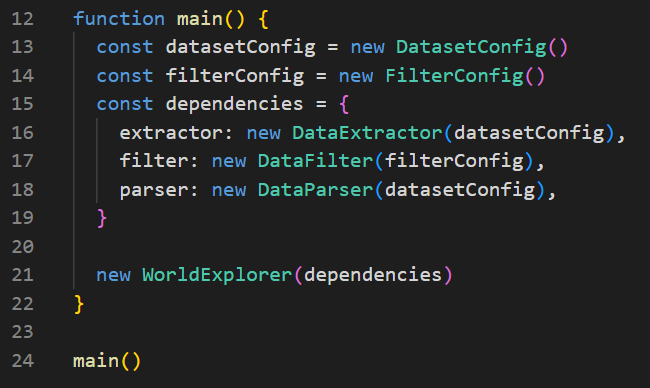
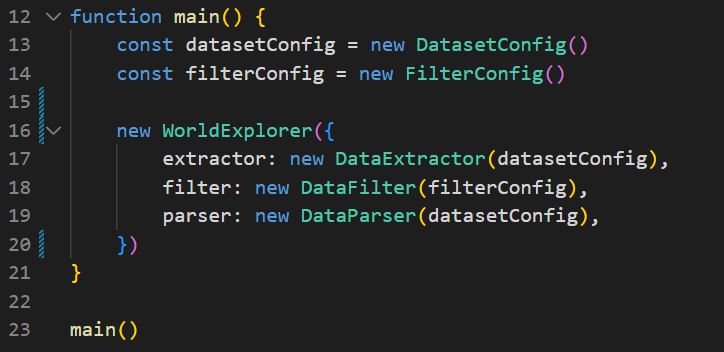
Add unit tests for Controller

diff --git a/tests/controller.spec.js b/tests/controller.spec.js
@@ -1,0 +1,70 @@
+/**
+ * @module Tests that the controller handles event flow correctly.
+ */
+
+import { describe, test, expect, jest, beforeEach } from "@jest/globals"
+import { DatasetConfig } from "../src/config/datasets.js"
+import { FilterConfig } from "../src/config/filters.js"
+import { DataParser } from "../src/model/dataParser.js"
+import { DataExtractor } from "../src/model/dataExtractor.js"
+import { DataFilter } from "../src/model/dataFilter.js"
+import { WorldExplorer } from "../src/controller/worldExplorer.js"
+
+function construct() {
+	const datasetConfig = new DatasetConfig()
+	const filterConfig = new FilterConfig()
+	
+	const worldExplorer = new WorldExplorer({
+		extractor: new DataExtractor(datasetConfig),
+		filter: new DataFilter(filterConfig),
+		parser: new DataParser(datasetConfig),
+	})
+
+	return worldExplorer
+}
+
+describe("WorldExplorer", () => {
+	beforeEach(() => {
+		document.body.innerHTML = `
+			<div id="container"></div>
+		`
+	})
+
+	test("appends controls to the DOM", () => {
+		const worldExplorer = construct()
+		const container = worldExplorer.container
+
+		expect(worldExplorer).toHaveProperty("container")
+		expect(container.hasChildNodes("<user-controls />")).toBeTruthy()
+	})
+
+	test("appends chart to the DOM", () => {
+		const worldExplorer = construct()
+		const container = worldExplorer.container
+
+		expect(worldExplorer).toHaveProperty("container")
+		expect(container.hasChildNodes("<chart-display />")).toBeTruthy()
+	})
+
+	test("appends table to the DOM", () => {
+		const worldExplorer = construct()
+		const container = worldExplorer.container
+
+		expect(worldExplorer).toHaveProperty("container")
+		expect(container.hasChildNodes("<table-display />")).toBeTruthy()
+	})
+
+	test("listens to choices-submitted event", () => {
+		const worldExplorer = construct()
+		const mockListener = jest.fn()
+		worldExplorer.addEventListener("choices-submitted", mockListener)
+
+		const event = new CustomEvent("choices-submitted", {
+			detail: "",
+			bubbles: true
+		})
+		worldExplorer.dispatchEvent(event)
+		
+		expect(mockListener).toHaveBeenCalledTimes(1)
+	})
+})

diff --git a/src/index.js b/src/index.js
@@ -12,13 +12,12 @@ import { WorldExplorer } from "./controller/worldExplorer"
 function main() {
 	const datasetConfig = new DatasetConfig()
 	const filterConfig = new FilterConfig()
-	const dependencies = {
+	
+	new WorldExplorer({
 		extractor: new DataExtractor(datasetConfig),
 		filter: new DataFilter(filterConfig),
 		parser: new DataParser(datasetConfig),
-	}
-
-	new WorldExplorer(dependencies)
+	})
 }
 
 main()

diff --git a/tests/model.spec.js b/tests/model.spec.js
@@ -1,5 +1,5 @@
 /**
- * @module Defines unit tests for all data handling.
+ * @module Tests all data handling logic.
  */
 
 import { describe, test, expect, jest } from "@jest/globals"

diff --git a/docs/testReport.md b/docs/testReport.md
@@ -19,7 +19,8 @@
 
 ---  
 # Unit tests
-[Unit tests](/tests/unit.spec.js)  
+[Controller tests](/tests/controller.spec.js)  
+[Model tests](/tests/model.spec.js)    
 [Coverage](https://github.com/aangelinux/1DV610-L3/actions/workflows/github-actions-demo.yml)  
   
 ![badge](https://img.shields.io/badge/unit_tests-7_pass_0_fail-green)  
